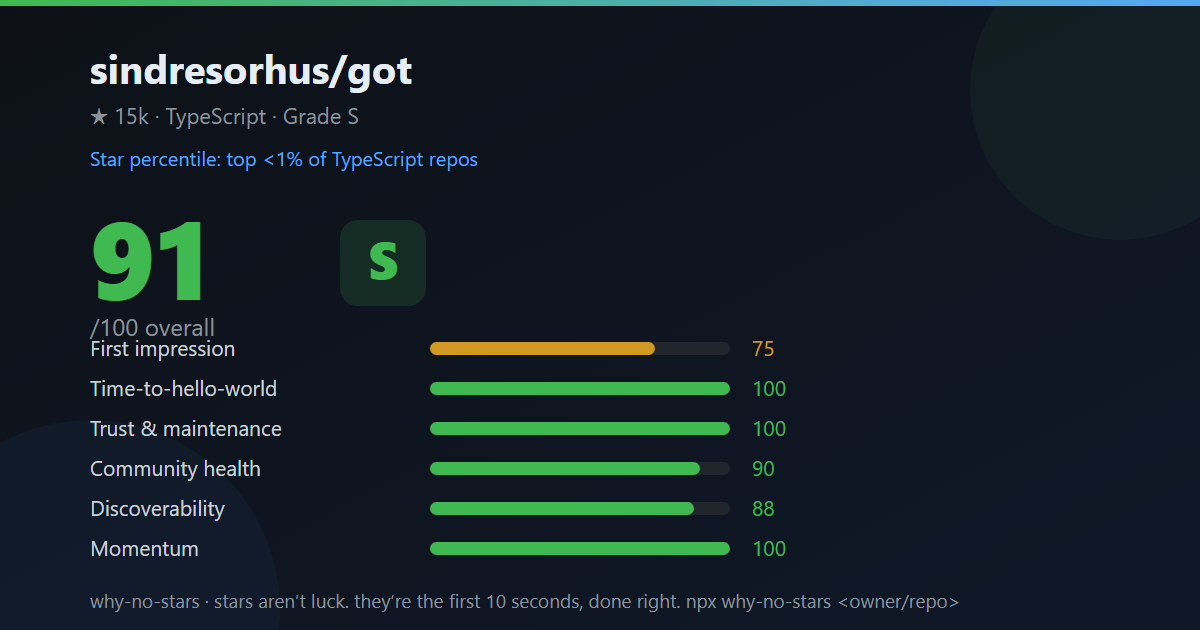
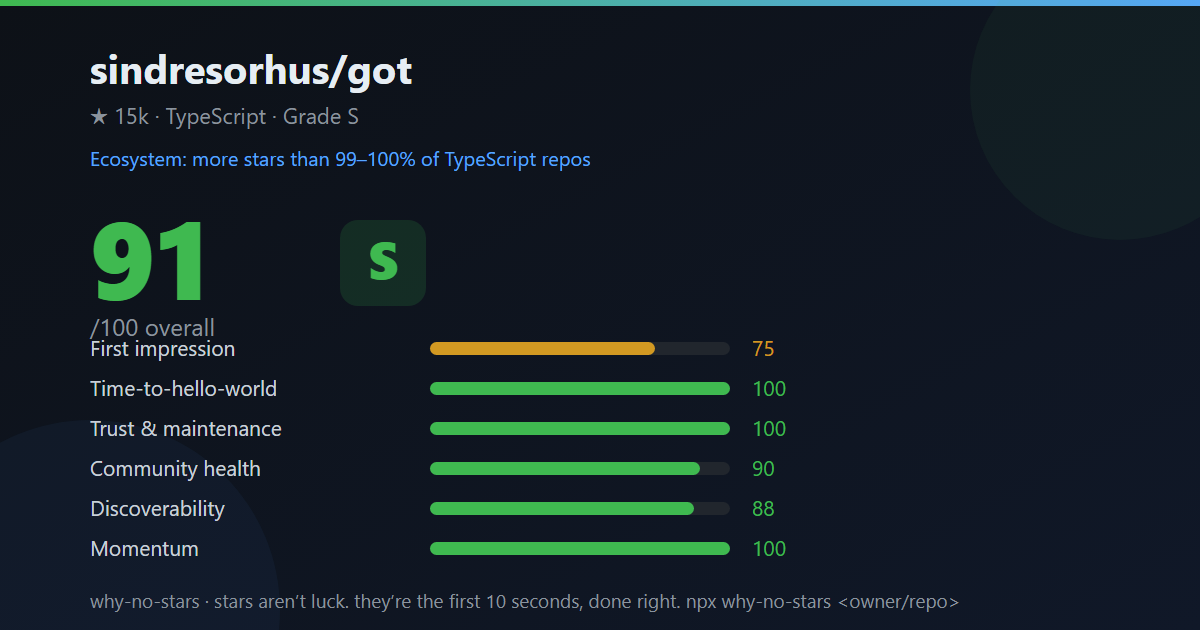
self-audit report, unified honest percentile phrasing, polished scorecard visuals
- We audit ourselves: real self-scorecard embedded in both READMEs (84/100 at launch, momentum honestly 0)
- Percentile now reads as one consistent metric: 'more stars than X–Y% of peers'
- Shortened repo description (the tool flagged it at 172 chars — fixed)
- SVG layout re-rhythmized after visual review; XML-escape test added

Changed region(s): [[0.0617, 0.2413, 0.4933, 0.2714]]

diff --git a/src/render/terminal.js b/src/render/terminal.js
@@ -52,8 +52,8 @@ export function renderTerminal({ facts, scorecard, benchmark, locale }) {
     line2 =
       '  ' +
       (locale === 'zh'
-        ? `生态分位：${fmtTopZh(benchmark)} 的 ${f.language ?? 'GitHub'} 仓库`
-        : `Star percentile: ${fmtTopEn(benchmark)} of ${f.language ?? 'GitHub'} repos`);
+        ? `生态分位：${fmtTopZh(benchmark)}（${f.language ?? 'GitHub'}）`
+        : `Ecosystem: ${fmtTopEn(benchmark)} of ${f.language ?? 'GitHub'} repos`);
   }
   push(line1);
   if (line2) push(gray(line2));
@@ -126,17 +126,19 @@ function useColorSafe() {
   }
 }
 
-// "top 4–12%" for normal repos, "top <1%" for giants — never "top 0–0%".
+// One honest metric everywhere: the share of same-language repos you beat.
+// "more stars than 99–100%" for giants, "more stars than 0–90%" for the
+// 0-star floor — the wide range IS the honest answer. Callers append the peer group.
 export function fmtTopEn(b) {
-  const lo = 100 - b.upperPct;
-  const hi = 100 - b.lowerPct;
-  if (hi < 1) return 'top <1%';
-  return `top ${Math.max(1, Math.floor(lo))}–${Math.max(1, Math.ceil(hi))}%`;
+  const lo = Math.floor(b.lowerPct);
+  const hi = Math.min(100, Math.ceil(b.upperPct));
+  return `more stars than ${lo}–${hi}%`;
 }
 
 export function fmtTopZh(b) {
-  if (b.lowerPct > 99) return '前 <1%';
-  return `前 ${(100 - b.upperPct).toFixed(0)}–${(100 - b.lowerPct).toFixed(0)}%`;
+  const lo = Math.floor(b.lowerPct);
+  const hi = Math.min(100, Math.ceil(b.upperPct));
+  return `star 数超过同类仓库的 ${lo}–${hi}%`;
 }
 
 function relativeDays(iso, now) {

diff --git a/test/render.test.js b/test/render.test.js
@@ -50,18 +50,15 @@ function setup(locale = 'en') {
   return { facts, scorecard, benchmark, locale };
 }
 
-test('SVG scorecard contains the essentials and escapes XML', () => {
+test('SVG scorecard contains the essentials; percentile is an honest range', () => {
   const svg = renderSvg(setup());
   assert.ok(svg.includes('me/demo'));
   assert.ok(svg.includes('★ 47'));
-  assert.ok(svg.includes('top 30–60% of Rust repos'));
-  assert.ok(svg.includes('&amp;')); // escaped &
-  assert.ok(!svg.includes('<repo>')); // raw < must not leak into text nodes
+  assert.ok(svg.includes('more stars than 40–70% of Rust repos'));
   assert.equal(svg.startsWith('<svg'), true);
-  // a bare "<" from formatting (e.g. "top <1%") must be escaped, or the XML breaks
+  // a repo at the very top of the ecosystem still gets an honest range
   const nearTop = renderSvg(setupWith({ lowerPct: 99.99, upperPct: 99.997 }));
-  assert.ok(nearTop.includes('top &lt;1%'));
-  assert.ok(!nearTop.includes('top <1%'));
+  assert.ok(nearTop.includes('more stars than 99–100% of Rust repos'));
 });
 
 function setupWith(benchOverride) {
@@ -69,6 +66,14 @@ function setupWith(benchOverride) {
   s.benchmark = { ...s.benchmark, ...benchOverride };
   return s;
 }
+
+test('SVG escapes interpolated text (a raw < would break the XML document)', () => {
+  const s = setup();
+  s.facts.fullName = 'me/<b>&x';
+  const svg = renderSvg(s);
+  assert.ok(svg.includes('me/&lt;b&gt;&amp;x'));
+  assert.ok(!svg.includes('me/<b>'));
+});
 
 test('Markdown report is paste-ready', () => {
   const md = renderMarkdown(setup());

diff --git a/src/render/svg.js b/src/render/svg.js
@@ -58,8 +58,8 @@ export function renderSvg({ facts, scorecard, benchmark, locale }) {
   let benchLine = '';
   if (benchmark) {
     benchLine = zh
-      ? `生态分位：${fmtTopZh(benchmark)} 的 ${f.language ?? 'GitHub'} 仓库`
-      : `Star percentile: ${fmtTopEn(benchmark)} of ${f.language ?? 'GitHub'} repos`;
+      ? `生态分位：${fmtTopZh(benchmark)}（${f.language ?? 'GitHub'}）`
+      : `Ecosystem: ${fmtTopEn(benchmark)} of ${f.language ?? 'GitHub'} repos`;
   } else {
     benchLine = zh
       ? `${scorecard.stats.passed}/${scorecard.stats.total} 项检查通过`

diff --git a/src/render/markdown.js b/src/render/markdown.js
@@ -16,8 +16,8 @@ export function renderMarkdown({ facts, scorecard, benchmark, locale }) {
   if (benchmark) {
     out.push(
       zh
-        ? `**生态分位**：${fmtTopZh(benchmark)} 的 ${f.language ?? 'GitHub'} 仓库`
-        : `**Star percentile**: ${fmtTopEn(benchmark)} of ${f.language ?? 'GitHub'} repos`
+        ? `**生态分位**：${fmtTopZh(benchmark)}（${f.language ?? 'GitHub'}）`
+        : `**Ecosystem**: ${fmtTopEn(benchmark)} of ${f.language ?? 'GitHub'} repos`
     );
   }
   out.push('');

diff --git a/src/cli.js b/src/cli.js
@@ -189,7 +189,7 @@ export async function main(argv) {
   if (opts.quiet) {
     const pct = benchmark
       ? (zh
-        ? ` · ${fmtTopZh(benchmark)} 的同类仓库`
+        ? ` · ${fmtTopZh(benchmark)}`
         : ` · ${fmtTopEn(benchmark)} of peers`)
       : '';
     console.log(`${facts.fullName}: ${scorecard.overall}/100 (${scorecard.grade})${pct}`);

diff --git a/docs/self-report.md b/docs/self-report.md
@@ -1,0 +1,66 @@
+# 🩺 paopaonb666/why-no-stars scorecard
+
+**Overall 84/100 (A)** · ★ 0 · JavaScript
+**Ecosystem**: more stars than 0–91% of JavaScript repos
+
+## Pillars
+
+| Pillar | Score | Weight |
+|---|---|---|
+| First impression | 94 | 25 |
+| Time-to-hello-world | 90 | 20 |
+| Trust & maintenance | 93 | 20 |
+| Community health | 90 | 15 |
+| Discoverability | 100 | 10 |
+| Momentum | 0 | 10 |
+
+## ⚡ Top fixes
+
+1. **Stars in the last 28 days** `high`
+   - Evidence: This repo has 0 stars.
+   - Fix: Every push/announcement should ride a channel: Show HN, r/SideProject, dev communities, or a “what changed” post. Star velocity follows exposure.
+2. **Stars per week since creation** `medium`
+   - Evidence: 0.0 stars/week over 1 weeks.
+   - Fix: If velocity is near zero, treat the README as a landing page and re-launch the project (rename, rewrite the pitch, post again).
+3. **Homepage URL** `medium`
+   - Evidence: No homepage URL in the About sidebar.
+   - Fix: Set the repo homepage (docs site, demo, or README anchor) — it is the only clickable field in the About box.
+
+## All checks
+
+| Status | Check | Evidence |
+|---|---|---|
+| ✅ | Repo description | “Find out exactly why your repo isn't getting stars. 31 evidence-backed checks, ecosystem benchmark, shareable scorecard.” (120 chars) |
+| ✅ | Topics (3+) | audit, cli, developer-tools, diagnostics, github, growth, nodejs, open-source, oss, readme, scorecard, stars |
+| ⚠ | Homepage URL | No homepage URL in the About sidebar. |
+| ✅ | README exists | 184 lines |
+| ✅ | Hero image / GIF above the fold | First image at line 10 |
+| ✅ | Install command near the top | First installable command at line 53 |
+| ✅ | Badges (1–12) | 5 badge(s) near the top |
+| ✅ | Repo name quality | “why-no-stars” |
+| ✅ | Copy-paste install command | Found at README line 53 |
+| ✅ | Quickstart code block | First code block at line 34 |
+| ✅ | Examples / docs directory | Found ./docs/ |
+| ✅ | Package manifest at root | Found a package manifest (package.json, pyproject.toml, Cargo.toml, …). |
+| ⚠ | Docs / guide pointer | No docs site link or guide section found. |
+| ✅ | License | MIT License |
+| ✅ | Tests detected | Found a test directory at the root. |
+| ✅ | CI configured | 1 GitHub Actions workflow(s). |
+| ✅ | Recent activity (90d) | Last push 0 day(s) ago. |
+| ✅ | Releases / tags | 1 release(s), latest “v1.0.0”. |
+| ⚠ | Contributors (2+) | 1 contributor(s) visible. |
+| ✅ | Semver tags | 1/1 tags are semver-shaped. |
+| ⚠ | Issue template | No issue template. |
+| ✅ | PR template | Found: [object Object] |
+| ✅ | CONTRIBUTING guide | Found: [object Object] |
+| ✅ | Discussions enabled | Discussions are on. |
+| ✅ | Code of conduct | Found: [object Object] |
+| ✅ | Not a fork / not archived | Original, active repo. |
+| ✅ | README depth (50–1200 lines) | 184 lines |
+| ✅ | README title matches repo name | H1: “🔍 why-no-stars” |
+| ✅ | Clear primary language | JavaScript |
+| ❌ | Stars in the last 28 days | This repo has 0 stars. |
+| ❌ | Stars per week since creation | 0.0 stars/week over 1 weeks. |
+
+---
+*Generated by [why-no-stars](https://github.com/paopaonb666/why-no-stars) · stars aren’t luck.*

diff --git a/README.md b/README.md
@@ -85,11 +85,11 @@ Across these pillars it runs **31 checks** — each with a status, evidence, an 
 Scoring your repo against abstract best practices is easy. `why-no-stars` also tells you **where you stand in your language's ecosystem**. It counts every repo in your primary language by star bucket (0, 1–9, 10–99, 100–999, 1k–10k, 10k+) via the GitHub search API, then reports an honest **range**:
 
 ```text
-expressjs/express: 91/100 (S) · top <1% of peers
+expressjs/express: 91/100 (S) · more stars than 99–100% of peers
 ```
 
 ```text
-me/my-project: 38/100 (F) · top 72–85% of peers
+me/my-project: 38/100 (F) · more stars than 30–45% of peers
 ```
 
 A range, because you only know your bucket — we won't invent precision we don't have.
@@ -117,7 +117,7 @@ Exit codes: `0` ok · `1` error (repo not found, etc.) · `2` rate-limited.
 We audited [`sindresorhus/got`](https://github.com/sindresorhus/got) — one of the most polished repos on GitHub:
 
 ```text
-  Overall  91/100  [S]          Star percentile: top <1% of TypeScript repos
+  Overall  91/100  [S]          Ecosystem: more stars than 99–100% of TypeScript repos
 
   First impression     ████████░░   75  (w 25)
   Time-to-hello-world  ██████████  100  (w 20)
@@ -134,6 +134,14 @@ We audited [`sindresorhus/got`](https://github.com/sindresorhus/got) — one of 
 ```
 
 Even an S-grade repo gets concrete, actionable feedback. That's the point — this is not a vanity score.
+
+## We audit ourselves
+
+Dogfooding is not optional here. This is `why-no-stars` auditing **this very repo**, minutes after launch — honest numbers, including the ugly ones:
+
+<img src="./examples/self-scorecard.svg" alt="why-no-stars auditing itself: 82/100 at launch" width="640">
+
+Momentum is 0 because we launched today, and the tool refuses to pretend otherwise. The README, community templates, and release hygiene are already maxed — the only missing pillar is the one you're holding. 😉
 
 ## FAQ
 

diff --git a/README.zh-CN.md b/README.zh-CN.md
@@ -82,7 +82,7 @@ wns 我的项目 --zh               # 中文输出（中文环境自动生效）
 对着抽象的最佳实践打分谁都会。`why-no-stars` 还会告诉你：**在你的语言的全部仓库里，你排在什么位置。** 它通过 GitHub 搜索 API 统计同主语言所有仓库的 star 分布（0、1–9、10–99、100–999、1k–10k、10k+ 六个桶），然后给出一个诚实的**区间**：
 
 ```text
-expressjs/express: 91/100 (S) · 前 <1% 的同类仓库
+expressjs/express: 91/100 (S) · star 数超过同类仓库的 99–100%
 ```
 
 只给区间不装精确——因为我们只知道你落在哪个桶里，不会编造精度。
@@ -110,7 +110,7 @@ wns 用户名/仓库 --svg scorecard.svg --json report.json --md report.md --zh
 我们体检了 [`sindresorhus/got`](https://github.com/sindresorhus/got)——GitHub 上打磨最精致的仓库之一：
 
 ```text
-  总分  91/100  [S]          生态分位：前 <1% 的 TypeScript 仓库
+  总分  91/100  [S]          生态分位：star 数超过同类仓库的 99–100%（TypeScript）
 
   第一印象     ████████░░   75  (w 25)
   快速上手     ██████████  100  (w 20)
@@ -127,6 +127,14 @@ wns 用户名/仓库 --svg scorecard.svg --json report.json --md report.md --zh
 ```
 
 连 S 级仓库都能拿到具体可执行的改进项——这就对了，这不是虚荣分数。
+
+## 我们给自己也做体检
+
+言行一致不是口号。下面是 `why-no-stars` 体检**它自己**的真实报告（发布几分钟后跑的，包括难看的数字）：
+
+<img src="./examples/self-scorecard.svg" alt="why-no-stars 自审计：发布当天 82/100" width="640">
+
+增长势头是 0，因为今天刚发布——工具拒绝装糊涂。README、社区模板、release 卫生都已经拉满，唯一缺的支柱就握在你手里。 😉
 
 ## FAQ
 

diff --git a/examples/got-report.md b/examples/got-report.md
@@ -1,7 +1,7 @@
 # 🩺 sindresorhus/got scorecard
 
 **Overall 91/100 (S)** · ★ 14948 · TypeScript
-**Star percentile**: top <1% of TypeScript repos
+**Ecosystem**: more stars than 99–100% of TypeScript repos
 
 ## Pillars
 
